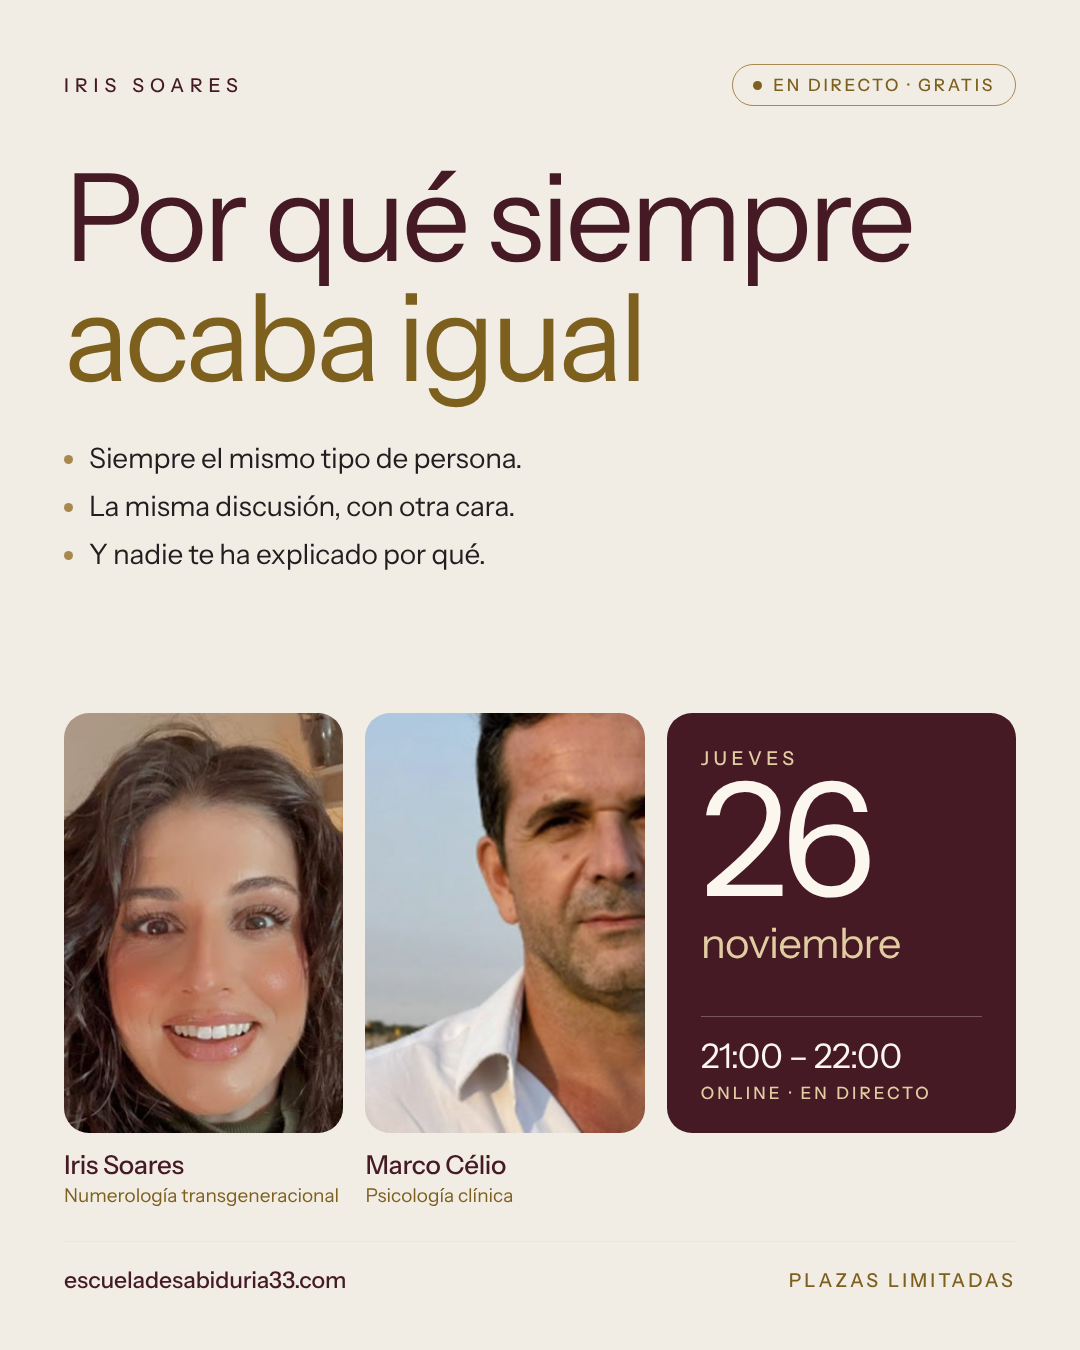
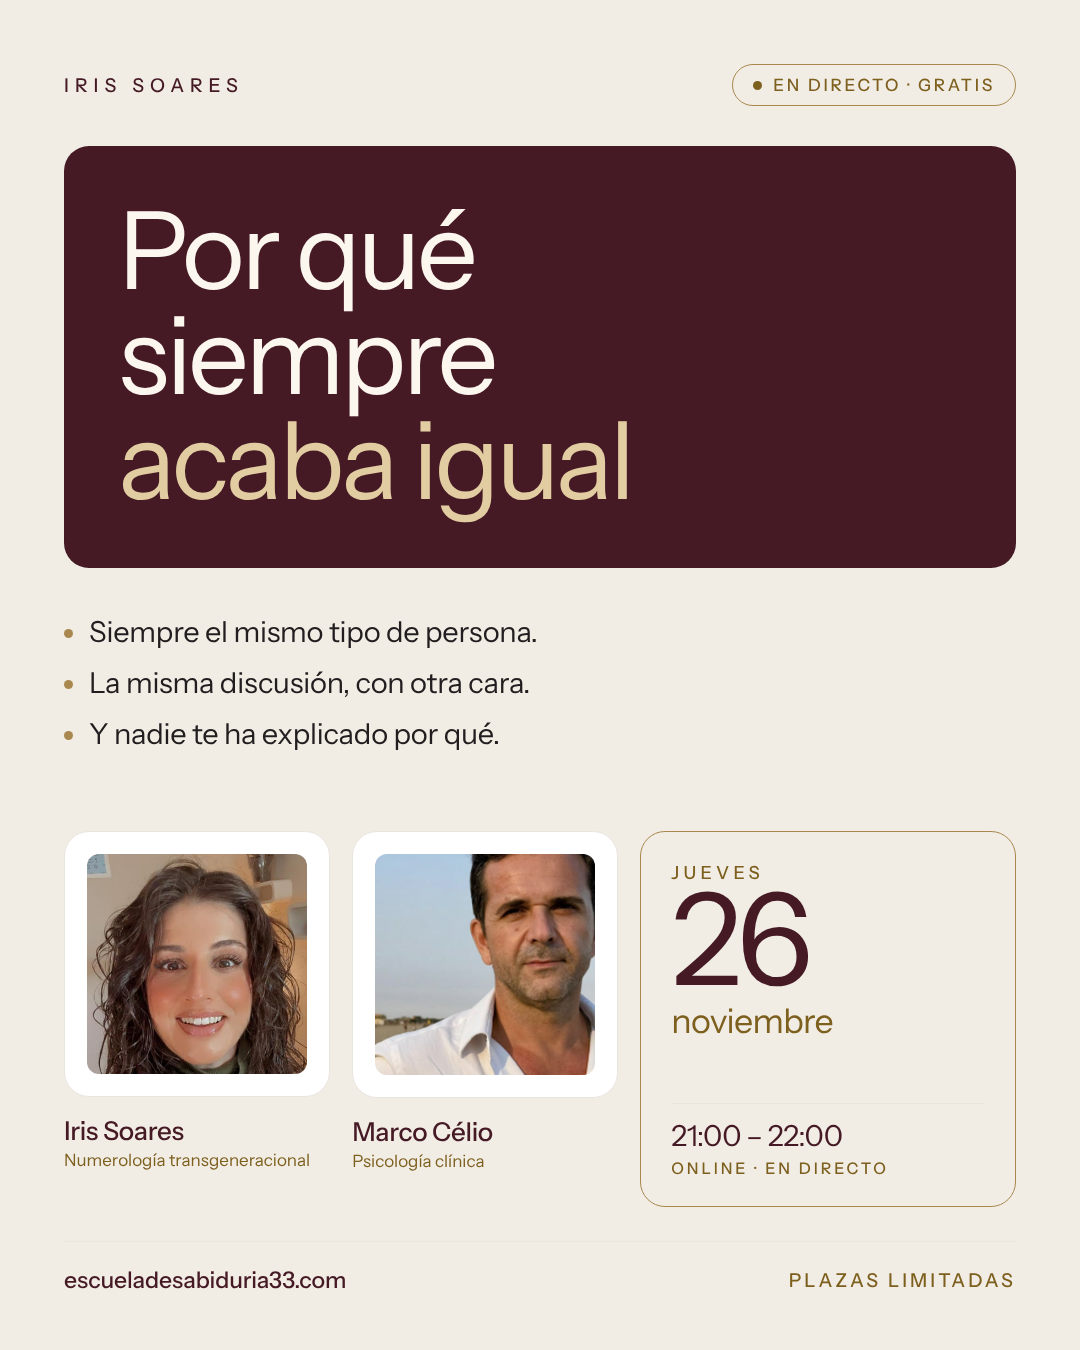
La frase, enmarcada; los retratos, centrados y sin cortar
Gerson: «los rostros tienen que estar centrados y alineados en la mitad
(…) el de él está tapado (…) que sean un poquito más alejados. La frase
como tal debe enmarcarse en algo, tiene que mostrarse más imponente».

LOS RETRATOS. Iban a sangre en un panel más alto que ancho, y como las
dos fotos vienen ya recortadas al ras de la cabeza, a Marco se le cortaba
el pelo por arriba. Ahora cada foto va ENTERA dentro de un marco cuadrado
—`contain`, no `cover`— con el mismo aire alrededor en las dos. No se
corta nada, las dos caras quedan a la misma altura porque el marco es el
mismo, y se ven más alejadas.

Mejor entera y pequeña que grande y descabezada. El día que haya fotos
con aire de origen, se cambia a `cover` y se gana resolución.

LA FRASE. Va dentro de un bloque granate con esquina blanda. Y como la
regla dice «la pieza oscura que ancla una pantalla clara: UNA POR
PANTALLA», la fecha deja de ser el bloque granate y pasa a ficha clara
con filete dorado. El peso del titular sigue en 300: lo imponente lo
ponen el marco y el tamaño, no la negrita.

El oficio baja a 17 px para que el de Iris no se parta en dos líneas
mientras el de Marco cabe en una: dos columnas gemelas que dejaban de
serlo.

Claude-Session: https://claude.ai/code/session_011wnQTDoRegjVJUx6mq1v5J

diff --git a/apps/web/public/anuncios/_plantilla-anuncios.html b/apps/web/public/anuncios/_plantilla-anuncios.html
@@ -2,7 +2,7 @@
 <html lang="es">
 <head>
 <meta charset="utf-8">
-<title>Creativos · según MARCA.md</title>
+<title>Creativos · marco y retratos alineados</title>
 <style>
   @font-face {
     font-family: 'Instrument Sans';
@@ -10,13 +10,7 @@
     font-weight: 300 700;
     font-display: block;
   }
-
-  /* ══════════════════════════════════════════════════════════════════════
-     LOS TOKENS DE LA MARCA, COPIADOS DE `MARCA.md` §3 Y §4.
-     Ni uno escrito a mano. Si hiciera falta un color que no está —un rosa,
-     por ejemplo— se añade primero allí y se usa después, que es lo que dice
-     la regla madre (§1).
-     ══════════════════════════════════════════════════════════════════════ */
+  /* Tokens copiados de MARCA.md §2, §3 y §4. Ni uno a ojo. */
   :root {
     --vino: #451a25;
     --oro: #a9884f;
@@ -26,27 +20,20 @@
     --papel: #ffffff;
     --arena: #f1ede4;
     --linea: #e9e5df;
-
-    /* §2 Los pesos. Por encima de 500 no se sube. */
+    --sobre-bloque: #fbf6ee;
     --peso-fino: 300;
     --peso-texto: 400;
     --peso-medio: 500;
-
-    /* §4 Las formas. Sólo estos radios. */
-    --radio: 4px;
-    --radio-chico: 3px;
     --radio-medio: 12px;
     --radio-suave: 25px;
     --radio-pildora: 100px;
   }
-
   * { box-sizing: border-box; margin: 0; padding: 0; }
   body {
     background: #9ca3af;
     font-family: 'Instrument Sans', system-ui, sans-serif;
     display: flex; flex-wrap: wrap; gap: 40px; padding: 40px;
   }
-
   .pieza {
     position: relative; overflow: hidden;
     width: 1080px; height: 1350px;
@@ -57,88 +44,98 @@
   }
   .p916 { height: 1920px; }
 
-  /* ------------------------------------------------------------ cabecera */
   .cabecera { display: flex; align-items: center; justify-content: space-between; }
-  .marca {
-    font-size: 19px; font-weight: var(--peso-medio);
-    letter-spacing: .32em; text-transform: uppercase;
-    color: var(--vino);
-  }
+  .marca { font-size: 19px; font-weight: var(--peso-medio); letter-spacing: .32em; text-transform: uppercase; }
   .pastilla {
     display: inline-flex; align-items: center; gap: 11px;
-    height: 42px; padding: 0 20px;
-    border-radius: var(--radio-pildora);
+    height: 42px; padding: 0 20px; border-radius: var(--radio-pildora);
     border: 1px solid var(--oro);
     font-size: 17px; font-weight: var(--peso-medio);
-    letter-spacing: .16em; text-transform: uppercase;
-    color: var(--oro-tinta);
+    letter-spacing: .16em; text-transform: uppercase; color: var(--oro-tinta);
   }
   .brasa { width: 9px; height: 9px; border-radius: 50%; background: var(--oro-tinta); }
 
-  /* ------------------------------------------------------------- titular */
-  /* §2: el contraste sale del TAMAÑO y del ESPACIO, no del peso. 300, como
-     manda `--peso-fino`, y grande. Eso es «Apple style modern light». */
-  .titular {
-    margin-top: 52px;
-    font-size: 122px; font-weight: var(--peso-fino);
-    line-height: .98; letter-spacing: -.035em;
-    text-wrap: balance;
-    max-width: 880px;
+  /* ══════════════════════════════════════════════════════════════════════
+     LA FRASE, ENMARCADA.
+     Gerson: «la frase como tal debe enmarcarse en algo, tiene que mostrarse
+     un poco más imponente». El marco es EL bloque oscuro de la pieza — y es
+     el único, porque la regla de la plataforma dice «la pieza oscura que
+     ancla una pantalla clara: UNA POR PANTALLA». Por eso la fecha, que antes
+     era el bloque granate, pasa a ser una ficha clara con filete dorado.
+     El peso sigue en 300: lo imponente lo pone el marco y el tamaño, no la
+     negrita (MARCA.md §2).
+     ══════════════════════════════════════════════════════════════════════ */
+  .marco-frase {
+    margin-top: 40px;
+    padding: 52px 54px 56px;
+    background: var(--vino);
+    color: var(--sobre-bloque);
+    border-radius: var(--radio-suave);
   }
-  .titular.largo { font-size: 104px; }
-  /* El énfasis, con el dorado que SÍ se lee sobre claro (§3). Nunca --oro. */
-  .titular b { font-weight: var(--peso-fino); color: var(--oro-tinta); }
+  .titular {
+    font-size: 108px; font-weight: var(--peso-fino);
+    line-height: .97; letter-spacing: -.035em;
+  }
+  .titular.largo { font-size: 94px; }
+  .titular b { font-weight: var(--peso-fino); color: var(--oro-luz); }
 
-  .lista { margin-top: 44px; display: flex; flex-direction: column; gap: 14px; }
+  .lista { margin-top: 46px; display: flex; flex-direction: column; gap: 16px; }
   .lista li {
     list-style: none; display: flex; align-items: baseline; gap: 16px;
-    font-size: 28px; font-weight: var(--peso-texto); letter-spacing: -.008em;
-    color: var(--tinta);
+    font-size: 29px; font-weight: var(--peso-texto); letter-spacing: -.008em; color: var(--tinta);
   }
   .lista li::before {
-    content: ''; flex: none;
-    width: 9px; height: 9px; border-radius: 50%;
+    content: ''; flex: none; width: 9px; height: 9px; border-radius: 50%;
     background: var(--oro); transform: translateY(-4px);
   }
 
-  /* ═════════════════════════════════════════════════ la franja de abajo
-     TRES PANELES Y NI UNA LETRA ENCIMA DE UNA CARA.
-     Los retratos van en su propio panel y el texto en el suyo. Así el solape
-     no es «poco probable»: es imposible por construcción. */
-  .franja {
-    margin-top: auto;
-    display: grid;
-    grid-template-columns: 1fr 1fr 1.25fr;
-    gap: 22px;
-  }
-  .panel {
+  /* ══════════════════════════════════════════════════════════════════════
+     LOS RETRATOS: CENTRADOS, DEL MISMO TAMAÑO Y SIN CORTAR.
+     Antes iban a sangre en un panel más alto que ancho, y como las dos fotos
+     vienen ya recortadas al ras de la cabeza, a Marco se le cortaba el pelo
+     por arriba. Ahora cada foto va ENTERA dentro de un marco cuadrado
+     —`contain`, no `cover`— con el mismo aire alrededor en las dos. Así:
+       · no se corta nada, ni a él ni a ella;
+       · las dos caras quedan a la misma altura, porque el marco es el mismo;
+       · y se ven «un poco más alejadas», que es lo que se pidió.
+     El día que haya fotos con más aire de origen, se cambia `contain` por
+     `cover` y se gana resolución. Hasta entonces, mejor entera y pequeña que
+     grande y descabezada.
+     ══════════════════════════════════════════════════════════════════════ */
+  .franja { margin-top: auto; display: grid; grid-template-columns: repeat(3, 1fr); gap: 22px; }
+  .retrato {
+    aspect-ratio: 1 / 1;
+    background: var(--papel);
+    border: 1px solid var(--linea);
     border-radius: var(--radio-suave);
-    overflow: hidden;
+    padding: 22px;
+    display: flex; align-items: center; justify-content: center;
   }
-  .retrato { position: relative; height: 420px; background-color: var(--linea); }
-  .retrato .foto { position: absolute; inset: 0; background-size: cover; }
-  .retrato.iris .foto { background-image: url('iris-retrato.jpg'); background-position: 50% 32%; }
-  .retrato.marco .foto { background-image: url('marco-retrato.jpg'); background-position: 50% 30%; }
-  /* El nombre va DEBAJO del retrato, sobre el fondo crema. Nunca encima. */
-  .nombre { margin-top: 16px; }
+  .retrato img {
+    width: 100%; height: 100%;
+    object-fit: contain; object-position: center;
+    border-radius: var(--radio-medio);
+  }
+  .nombre { margin-top: 18px; }
   .nombre b { display: block; font-size: 26px; font-weight: var(--peso-medio); letter-spacing: -.012em; }
-  .nombre span { display: block; margin-top: 3px; font-size: 19px; font-weight: var(--peso-texto); color: var(--oro-tinta); }
+  .nombre span { display: block; margin-top: 3px; font-size: 17px; font-weight: var(--peso-texto); color: var(--oro-tinta); }
 
-  /* §3 de la plataforma: «la pieza oscura que ancla una pantalla clara. UNA
-     POR PANTALLA». Ésta es la única, y lleva la cita. */
+  /* La fecha, ahora en claro con filete dorado: el bloque oscuro ya lo gasta
+     la frase, y sólo puede haber uno. */
   .cita {
-    height: 420px; padding: 34px 34px 30px;
-    background: var(--vino); color: #fbf6ee;
+    aspect-ratio: 1 / 1;
+    border: 1px solid var(--oro);
+    border-radius: var(--radio-suave);
+    padding: 30px 30px 28px;
     display: flex; flex-direction: column; justify-content: space-between;
   }
-  .cita .dia { font-size: 19px; font-weight: var(--peso-medio); letter-spacing: .24em; text-transform: uppercase; color: var(--oro-luz); }
-  .cita .numero { margin-top: 4px; font-size: 158px; font-weight: var(--peso-fino); line-height: .84; letter-spacing: -.05em; }
-  .cita .mes { margin-top: 10px; font-size: 42px; font-weight: var(--peso-fino); letter-spacing: -.02em; color: var(--oro-luz); }
-  .cita .raya { height: 1px; background: rgba(251,246,238,.28); }
-  .cita .hora { font-size: 34px; font-weight: var(--peso-fino); letter-spacing: -.02em; }
-  .cita .donde { margin-top: 6px; font-size: 17px; font-weight: var(--peso-medio); letter-spacing: .18em; text-transform: uppercase; color: var(--oro-luz); }
+  .cita .dia { font-size: 18px; font-weight: var(--peso-medio); letter-spacing: .24em; text-transform: uppercase; color: var(--oro-tinta); }
+  .cita .numero { margin-top: 2px; font-size: 128px; font-weight: var(--peso-fino); line-height: .84; letter-spacing: -.05em; }
+  .cita .mes { margin-top: 6px; font-size: 34px; font-weight: var(--peso-fino); letter-spacing: -.02em; color: var(--oro-tinta); }
+  .cita .raya { height: 1px; background: var(--linea); margin-bottom: 14px; }
+  .cita .hora { font-size: 29px; font-weight: var(--peso-fino); letter-spacing: -.02em; }
+  .cita .donde { margin-top: 5px; font-size: 16px; font-weight: var(--peso-medio); letter-spacing: .18em; text-transform: uppercase; color: var(--oro-tinta); }
 
-  /* ------------------------------------------------------------------ pie */
   .pie {
     margin-top: 34px; padding-top: 24px;
     border-top: 1px solid var(--linea);
@@ -151,38 +148,14 @@
 </head>
 <body>
 
-<!-- ╔══════════════════════════════════════════════════════════════════════╗
-     ║  REHECHO CONTRA `MARCA.md`, QUE ES EL DOCUMENTO QUE MANDA             ║
-     ║                                                                      ║
-     ║  Lo anterior rompía cuatro reglas escritas, y por eso no se parecía a ║
-     ║  esta marca:                                                         ║
-     ║                                                                      ║
-     ║   §2  «Por encima de 500 no se sube. Un titular no se enfatiza       ║
-     ║        engordándolo.» Iban todos a 700. Ahora a 300 —`--peso-fino`—  ║
-     ║        y grandes: el contraste sale del tamaño y del espacio, que es ║
-     ║        lo que Gerson pidió dos veces como «Apple style modern light».║
-     ║   §3  «Un color se usa por su token, nunca por su hexadecimal.» Me   ║
-     ║        inventé un dorado, un rosa y un malva. Fuera los tres: aquí   ║
-     ║        sólo entran --vino, --oro, --oro-tinta, --oro-luz, --arena,   ║
-     ║        --linea y --tinta. Si hace falta un rosa, se añade primero a  ║
-     ║        MARCA.md y se usa después.                                    ║
-     ║   §4  Radios 4 / 3 / 12 / 25 / 100. Usaba 26, 44 y 999 a ojo.        ║
-     ║   §8.3 «Se mide, no se mira por encima: contraste, encuadre y        ║
-     ║        SOLAPES se comprueban con una captura y un número.» No lo     ║
-     ║        medí, y le tapé la cara a la clienta con un titular.          ║
-     ║                                                                      ║
-     ║  EL SOLAPE AHORA ES IMPOSIBLE, no improbable: los retratos viven en  ║
-     ║  su propio panel y el texto en el suyo. Un nombre nunca va encima de ║
-     ║  una cara; va debajo, sobre el crema. Y hay un script al lado que lo ║
-     ║  comprueba y falla si algún texto pisa un retrato.                   ║
-     ╚══════════════════════════════════════════════════════════════════════╝ -->
-
-<div class="pieza" id="b1-acaba-igual">
+<div class="pieza" id="m1-acaba-igual">
   <div class="cabecera">
     <span class="marca">Iris Soares</span>
     <span class="pastilla"><i class="brasa"></i>En directo · Gratis</span>
   </div>
-  <h1 class="titular">Por qué siempre <b>acaba igual</b></h1>
+  <div class="marco-frase">
+    <h1 class="titular">Por qué<br>siempre<br><b>acaba igual</b></h1>
+  </div>
   <ul class="lista">
     <li>Siempre el mismo tipo de persona.</li>
     <li>La misma discusión, con otra cara.</li>
@@ -190,21 +163,21 @@
   </ul>
   <div class="franja">
     <div>
-      <div class="panel retrato iris"><i class="foto"></i></div>
+      <div class="retrato"><img src="iris-retrato.jpg" alt="Iris Soares"></div>
       <div class="nombre"><b>Iris Soares</b><span>Numerología transgeneracional</span></div>
     </div>
     <div>
-      <div class="panel retrato marco"><i class="foto"></i></div>
+      <div class="retrato"><img src="marco-retrato.jpg" alt="Marco Célio"></div>
       <div class="nombre"><b>Marco Célio</b><span>Psicología clínica</span></div>
     </div>
-    <div class="panel cita">
+    <div class="cita">
       <div>
         <p class="dia">Jueves</p>
         <p class="numero">26</p>
         <p class="mes">noviembre</p>
       </div>
       <div>
-        <div class="raya" style="margin-bottom:18px"></div>
+        <div class="raya"></div>
         <p class="hora">21:00 – 22:00</p>
         <p class="donde">Online · En directo</p>
       </div>
@@ -216,12 +189,14 @@
   </div>
 </div>
 
-<div class="pieza" id="b2-tres-fechas">
+<div class="pieza" id="m2-tres-fechas">
   <div class="cabecera">
     <span class="marca">Iris Soares</span>
     <span class="pastilla"><i class="brasa"></i>En directo · Gratis</span>
   </div>
-  <h1 class="titular largo">Trae tres <b>fechas de nacimiento</b></h1>
+  <div class="marco-frase">
+    <h1 class="titular largo">Trae tres<br><b>fechas de nacimiento</b></h1>
+  </div>
   <ul class="lista">
     <li>La edad a la que cada una se emparejó.</li>
     <li>El tipo de persona que eligió.</li>
@@ -229,21 +204,21 @@
   </ul>
   <div class="franja">
     <div>
-      <div class="panel retrato iris"><i class="foto"></i></div>
+      <div class="retrato"><img src="iris-retrato.jpg" alt="Iris Soares"></div>
       <div class="nombre"><b>Iris Soares</b><span>Numerología transgeneracional</span></div>
     </div>
     <div>
-      <div class="panel retrato marco"><i class="foto"></i></div>
+      <div class="retrato"><img src="marco-retrato.jpg" alt="Marco Célio"></div>
       <div class="nombre"><b>Marco Célio</b><span>Psicología clínica</span></div>
     </div>
-    <div class="panel cita">
+    <div class="cita">
       <div>
         <p class="dia">Jueves</p>
         <p class="numero">26</p>
         <p class="mes">noviembre</p>
       </div>
       <div>
-        <div class="raya" style="margin-bottom:18px"></div>
+        <div class="raya"></div>
         <p class="hora">21:00 – 22:00</p>
         <p class="donde">Online · En directo</p>
       </div>
@@ -255,12 +230,14 @@
   </div>
 </div>
 
-<div class="pieza p916" id="b1-acaba-igual-9x16">
+<div class="pieza p916" id="m1-acaba-igual-9x16">
   <div class="cabecera">
     <span class="marca">Iris Soares</span>
     <span class="pastilla"><i class="brasa"></i>En directo · Gratis</span>
   </div>
-  <h1 class="titular" style="margin-top:150px">Por qué siempre <b>acaba igual</b></h1>
+  <div class="marco-frase" style="margin-top:150px">
+    <h1 class="titular">Por qué<br>siempre<br><b>acaba igual</b></h1>
+  </div>
   <ul class="lista">
     <li>Siempre el mismo tipo de persona.</li>
     <li>La misma discusión, con otra cara.</li>
@@ -268,21 +245,21 @@
   </ul>
   <div class="franja">
     <div>
-      <div class="panel retrato iris"><i class="foto"></i></div>
+      <div class="retrato"><img src="iris-retrato.jpg" alt="Iris Soares"></div>
       <div class="nombre"><b>Iris Soares</b><span>Numerología transgeneracional</span></div>
     </div>
     <div>
-      <div class="panel retrato marco"><i class="foto"></i></div>
+      <div class="retrato"><img src="marco-retrato.jpg" alt="Marco Célio"></div>
       <div class="nombre"><b>Marco Célio</b><span>Psicología clínica</span></div>
     </div>
-    <div class="panel cita">
+    <div class="cita">
       <div>
         <p class="dia">Jueves</p>
         <p class="numero">26</p>
         <p class="mes">noviembre</p>
       </div>
       <div>
-        <div class="raya" style="margin-bottom:18px"></div>
+        <div class="raya"></div>
         <p class="hora">21:00 – 22:00</p>
         <p class="donde">Online · En directo</p>
       </div>
